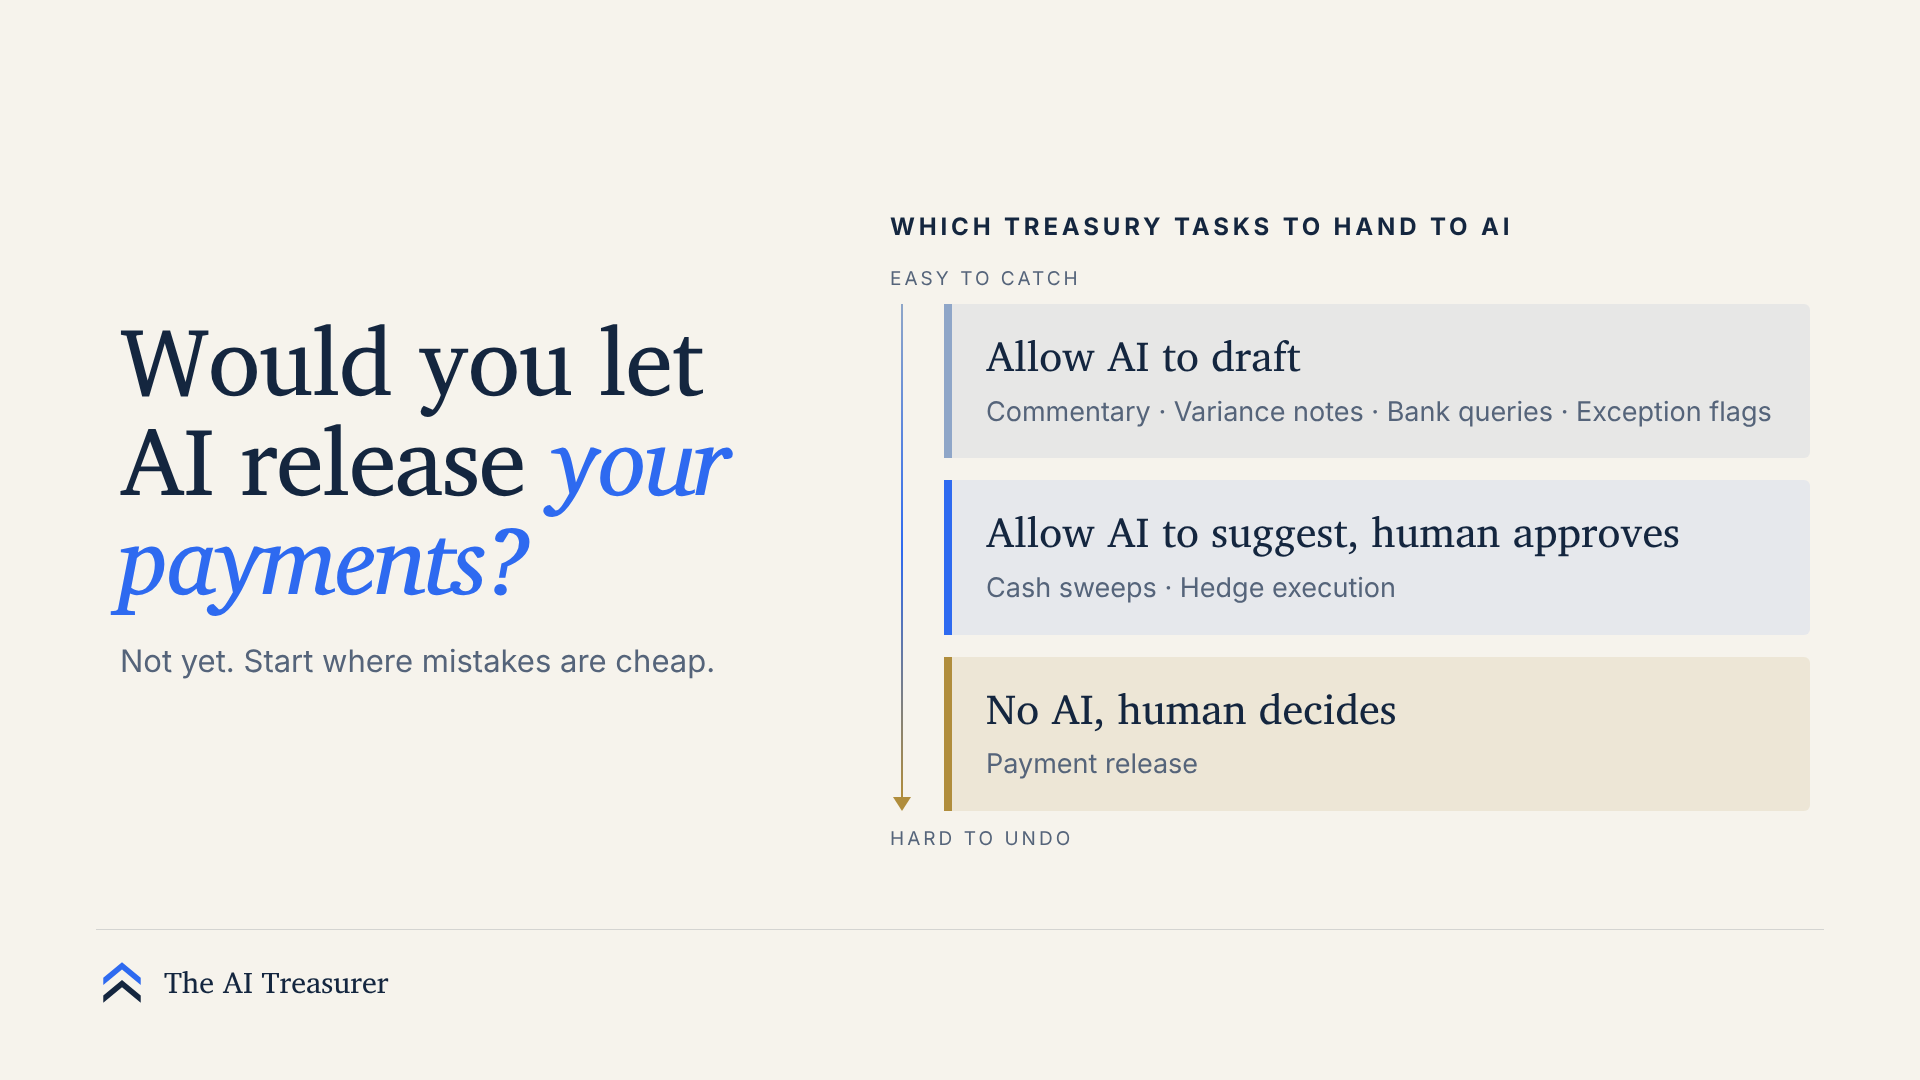
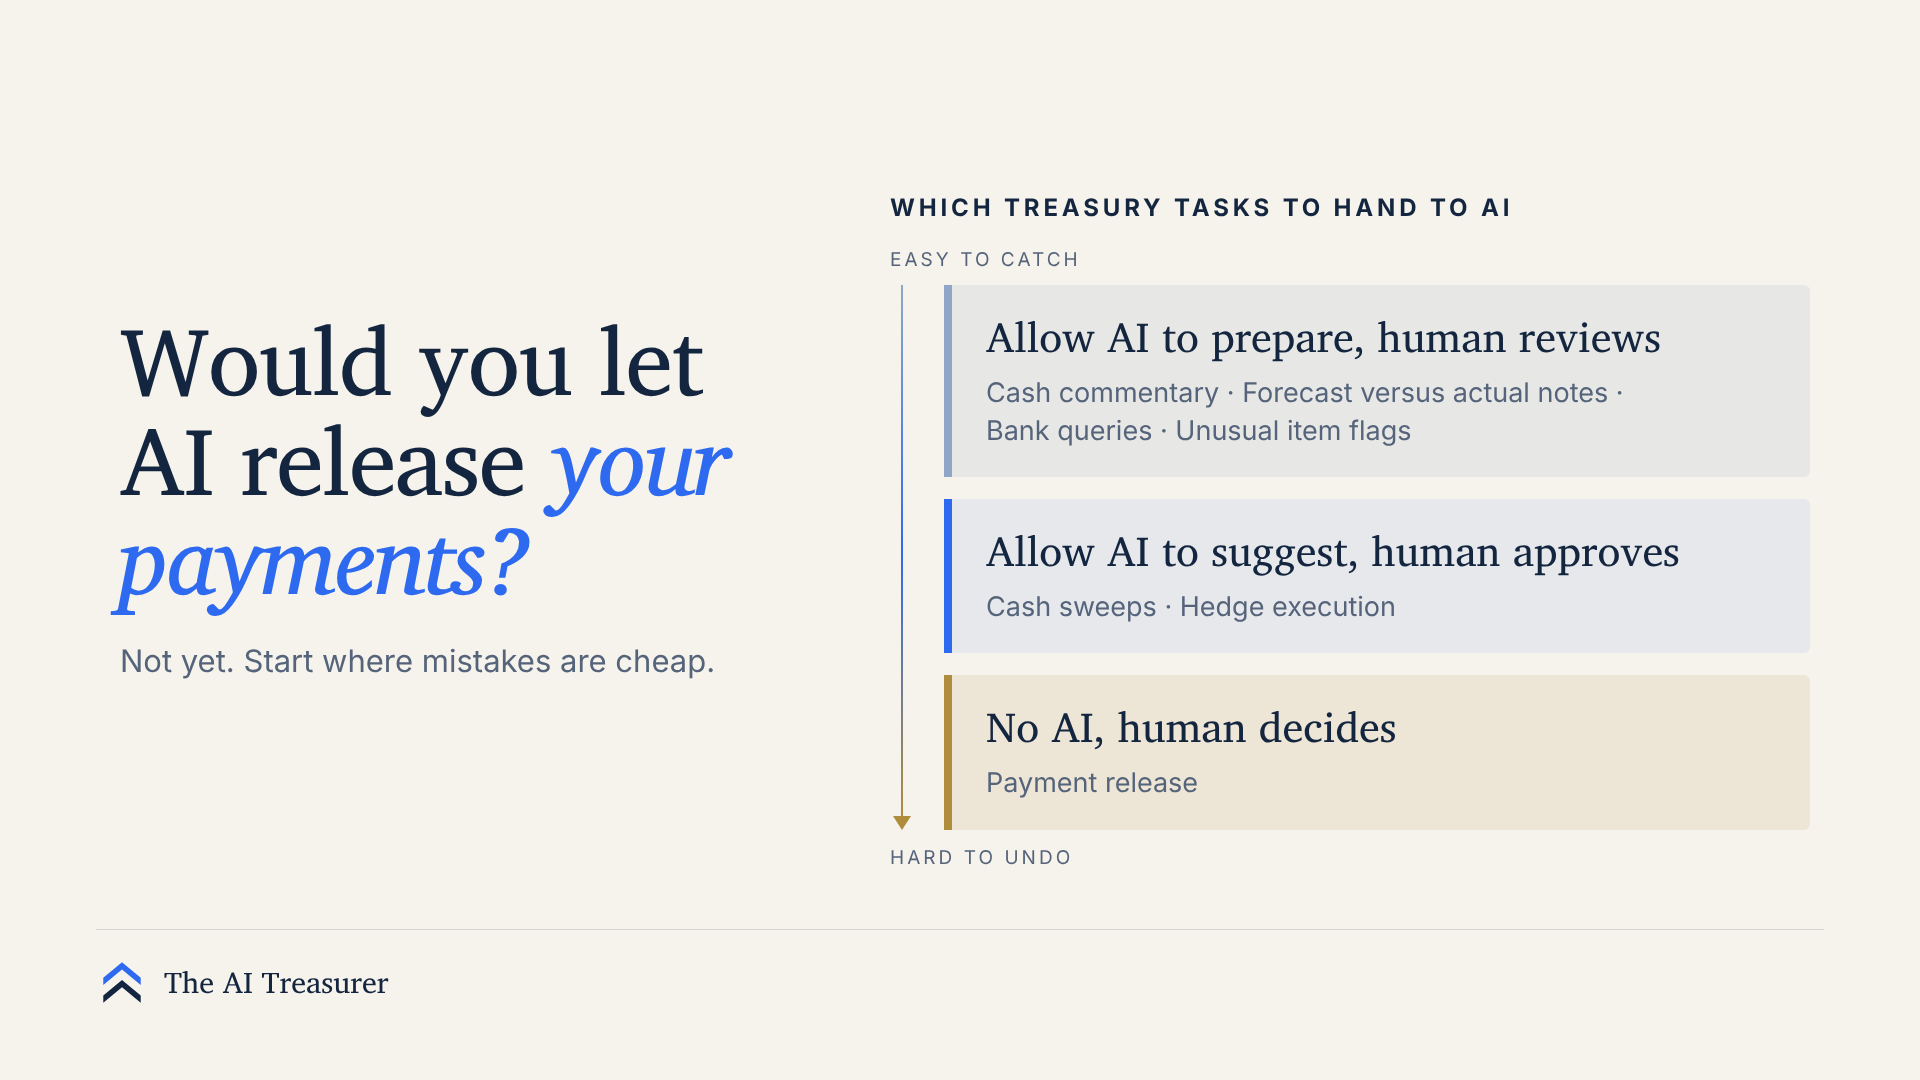
First group renamed: Allow AI to prepare, human reviews; images match article task names
Claude-Session: https://claude.ai/code/session_01JedePw4pbBaJB5BPxPMryK

diff --git a/articles/start-where-mistakes-are-cheap/index.html b/articles/start-where-mistakes-are-cheap/index.html
@@ -148,7 +148,7 @@
     <div class="kicker">At a glance</div>
     <p class="rule">Use AI first on low risk tasks, where a mistake costs little and someone would spot it quickly. Give it more authority only once it has earned it.</p>
     <ul class="tiers">
-      <li class="t1"><span class="l">Allow AI to draft</span><span class="t">Cash commentary &middot; Forecast versus actual notes &middot; Bank queries &middot; Unusual item flags</span></li>
+      <li class="t1"><span class="l">Allow AI to prepare, human reviews</span><span class="t">Cash commentary &middot; Forecast versus actual notes &middot; Bank queries &middot; Unusual item flags</span></li>
       <li class="t2"><span class="l">Allow AI to suggest, human approves</span><span class="t">Cash sweeps &middot; Hedge execution</span></li>
       <li class="t3"><span class="l">No AI, human decides</span><span class="t">Payment release</span></li>
     </ul>
@@ -169,14 +169,14 @@
   <h2>Which Treasury tasks to hand to AI</h2>
   <p>Apply the four questions above, and most Treasury tasks fall into three groups. Here are typical examples of each.</p>
 
-  <h3 class="t1">Allow AI to draft</h3>
+  <h3 class="t1">Allow AI to prepare, human reviews</h3>
   <ul class="tasks t1">
     <li>Cash position commentary</li>
     <li>Forecast versus actual notes</li>
     <li>Queries to banks</li>
     <li>Flags on unusual items for review</li>
   </ul>
-  <p><em>Why it&rsquo;s safe:</em> a person reads the output before anything is sent or posted, and the source data is close at hand. If it&rsquo;s wrong, you lose a few minutes.</p>
+  <p><em>Why it&rsquo;s safe:</em> a person reads the output before anything is sent or posted, and the source data is close at hand. If AI gets it wrong, you lose only a few minutes.</p>
 
   <h3 class="t2">Allow AI to suggest, human approves</h3>
   <ul class="tasks t2">
